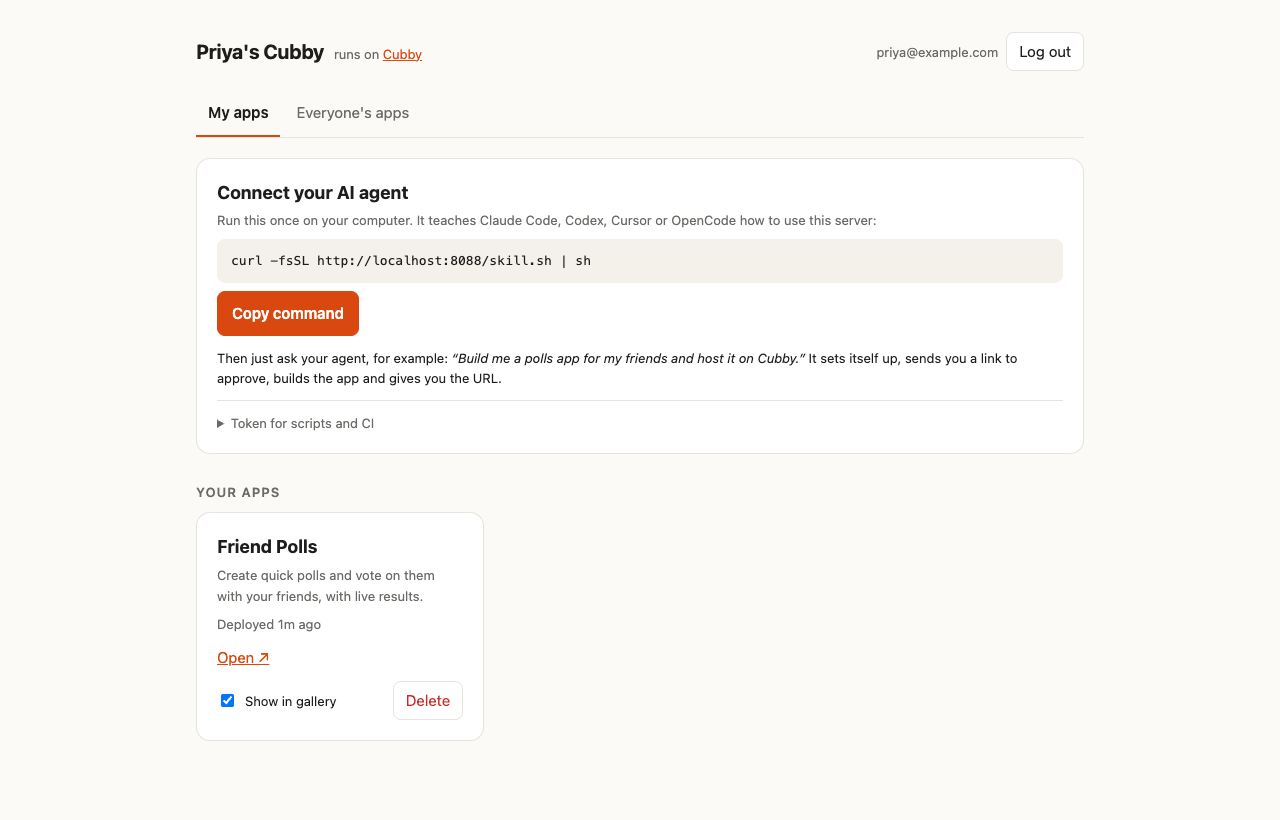
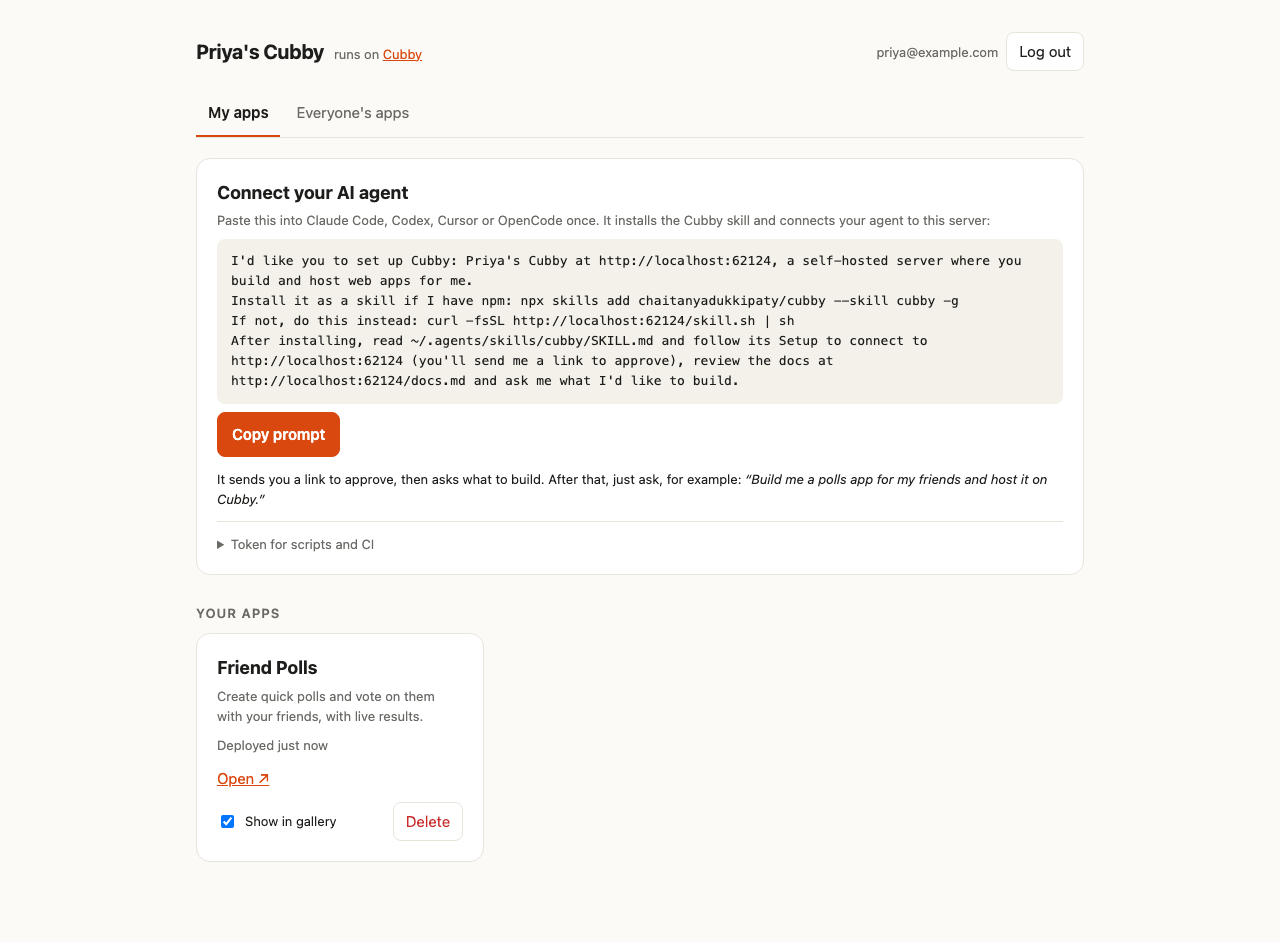
feat(dashboard): connect agents with a setup prompt instead of a bare curl | sh
Pasted on its own, `curl … | sh` from an unfamiliar domain gets flagged by
agents as malicious. The dashboard now shows a here.now-style prompt that names
the server, installs the skill with `npx skills add` (falling back to
/skill.sh) and has the agent connect. SKILL.md takes the server URL from the
user's message when the CLI isn't installed yet. README, docs and the
dashboard screenshot follow.

diff --git a/docs/index.html b/docs/index.html
@@ -8,7 +8,7 @@
 <link rel="icon" href="assets/logo.svg?v=aa679b5d" type="image/svg+xml">
 <meta property="og:title" content="Cubby: a home for the apps your agents build">
 <meta property="og:description" content="Self-host one server, invite your friends, and let AI coding agents build, deploy and share full-stack apps.">
-<meta property="og:image" content="assets/dashboard-my-apps.png?v=2a8e741c">
+<meta property="og:image" content="assets/dashboard-my-apps.png?v=2db02665">
 <link rel="preconnect" href="https://fonts.googleapis.com">
 <link rel="preconnect" href="https://fonts.gstatic.com" crossorigin>
 <link rel="stylesheet" href="https://fonts.googleapis.com/css2?family=Bricolage+Grotesque:opsz,wght@12..96,600;12..96,800&family=IBM+Plex+Sans:ital,wght@0,400;0,500;0,600;1,400&family=JetBrains+Mono:wght@400;500&display=swap">
@@ -301,7 +301,7 @@ curl -fsSL https://raw.githubusercontent.com/chaitanyadukkipaty/cubby/main/insta
       <h2>Invite people</h2>
       <p>Send your friends the server URL and the signup code. In the dashboard's <b>Admin</b> tab, <b>Copy invite</b> copies both. They open the URL, sign up with the code, and land on their dashboard, headed with your server's name.</p>
       <div class="two">
-        <figure class="shot"><img src="assets/dashboard-my-apps.png?v=2a8e741c" alt="Cubby dashboard showing the Connect your AI agent card and the user's Friend Polls app" loading="lazy" width="1280" height="820"><figcaption>What a friend sees after signing up.</figcaption></figure>
+        <figure class="shot"><img src="assets/dashboard-my-apps.png?v=2db02665" alt="Cubby dashboard showing the Connect your AI agent card and the user's Friend Polls app" loading="lazy" width="1280" height="820"><figcaption>What a friend sees after signing up.</figcaption></figure>
         <div>
           <p><b>Rotate code</b> invalidates the old code for new signups; existing accounts keep working.</p>
           <p><b>Open signup</b> drops the code requirement entirely. Leave it off for a server on the public internet: bots find open signup forms within days.</p>
@@ -313,9 +313,12 @@ curl -fsSL https://raw.githubusercontent.com/chaitanyadukkipaty/cubby/main/insta
     <section id="agents">
       <p class="kicker">Everyone · once</p>
       <h2>Connect your agent</h2>
-      <p>Each person runs one command on their own computer. It's shown on their dashboard with the right server URL filled in:</p>
-      <div class="code"><pre>curl -fsSL https://cubby.example.com/skill.sh | sh</pre></div>
-      <p>This installs the <b>cubby skill</b>, instructions that teach your coding agent how to use Cubby, and adds this server to your list by name. The skill goes in <code>~/.agents/skills/cubby</code> and is linked into every agent it finds:</p>
+      <p>Each person pastes one prompt into their coding agent. It's shown on their dashboard with the server's name and URL filled in:</p>
+      <div class="code"><pre style="white-space:pre-wrap">I&#39;d like you to set up Cubby: Priya&#39;s Cubby at https://cubby.example.com, a self-hosted server where you build and host web apps for me.
+Install it as a skill if I have npm: npx skills add chaitanyadukkipaty/cubby --skill cubby -g
+If not, do this instead: curl -fsSL https://cubby.example.com/skill.sh | sh
+After installing, read ~/.agents/skills/cubby/SKILL.md and follow its Setup to connect to https://cubby.example.com (you&#39;ll send me a link to approve), review the docs at https://cubby.example.com/docs.md and ask me what I&#39;d like to build.</pre></div>
+      <p>The agent installs the <b>cubby skill</b>, instructions that teach it how to use Cubby, with <code>npx skills add</code> from GitHub (or the server's own <code>/skill.sh</code> without npm), sends you a link to approve, and adds the server to your list by name. It's a prompt, not a bare <code>curl … | sh</code>, so your agent knows what you're asking for instead of flagging an unknown script. The skill goes in <code>~/.agents/skills/cubby</code> and is linked into every agent it finds:</p>
       <div class="grid">
         <div class="card"><h4>Claude Code</h4><p><code>~/.claude/skills</code></p></div>
         <div class="card"><h4>Codex</h4><p><code>~/.codex/skills</code></p></div>
@@ -481,7 +484,7 @@ curl -fsSL https://raw.githubusercontent.com/chaitanyadukkipaty/cubby/main/insta
       <details class="faq"><summary>How big can it get?</summary><p>All apps share one SQLite database, which comfortably serves a group of friends or a small team. One very busy app slows the others. There's no per-app data quota yet; the Admin tab shows disk use so you can clean up.</p></details>
       <details class="faq"><summary>Which agents work?</summary><p>Any agent that supports skills (Claude Code, Codex, Cursor, OpenCode). Others can still use Cubby by reading <code>&lt;server&gt;/docs.md</code> and running the CLI.</p></details>
       <details class="faq"><summary>What's not supported yet?</summary><p>Server-side code, cron jobs, custom domains per app, single sign-on across apps, and app emails (verification, password reset).</p></details>
-      <details class="faq"><summary>Can I use several Cubby servers?</summary><p>Yes. Run each server's <code>skill.sh</code> command once; your agent then picks a server by its name, and asks if it isn't sure. <code>cubby servers</code> lists them and <code>cubby use</code> sets the default. Servers on different Cubby versions work side by side: the CLI always matches the server it's talking to (in an app folder, the server in <code>cubby.json</code>), downloading that server's version of the CLI once. Agents find out what a server supports with <code>cubby help --json</code>. Servers older than Cubby 0.1.1 aren't supported; the CLI tells you to ask the admin to run <code>sudo cubby-server upgrade</code>.</p></details>
+      <details class="faq"><summary>Can I use several Cubby servers?</summary><p>Yes. Paste each server's setup prompt into your agent once; the first one becomes the default for new apps; your agent then picks a server by its name, and asks if it isn't sure. <code>cubby servers</code> lists them and <code>cubby use</code> sets the default. Servers on different Cubby versions work side by side: the CLI always matches the server it's talking to (in an app folder, the server in <code>cubby.json</code>), downloading that server's version of the CLI once. Agents find out what a server supports with <code>cubby help --json</code>. Servers older than Cubby 0.1.1 aren't supported; the CLI tells you to ask the admin to run <code>sudo cubby-server upgrade</code>.</p></details>
       <details class="faq"><summary>A server moved to a new address. How do I move my app?</summary><p>Each app's <code>cubby.json</code> remembers its server's address. Log in to the new address, then run <code>cubby link &lt;app&gt; --server &lt;new-url&gt;</code> in the app's folder.</p></details>
       <details class="faq"><summary>Which version am I on, and how do I update?</summary><p>The Admin tab shows the version at the bottom and tells you when a newer release is out. On the server, <code>sudo cubby-server version</code> shows the details and <code>sudo cubby-server upgrade</code> updates (it backs up first). Normal releases go 0.1.1 → 0.1.2; only a major change moves to 0.2.0.</p></details>
       <details class="faq"><summary>My agent's login link expired.</summary><p>Links last 10 minutes. Ask the agent to try again; it starts a fresh one.</p></details>

diff --git a/server/public/index.html b/server/public/index.html
@@ -107,6 +107,17 @@ function ago(date, now = Date.now()) {
 }
 const maskToken = (t) => `${String(t).slice(0, 6)}${'•'.repeat(20)}`;
 const installCommand = (server) => `curl -fsSL ${server}/skill.sh | sh`;
+const SKILL_REPO = 'chaitanyadukkipaty/cubby';
+// What a user pastes into their agent. Stating the intent and the server up front (and letting the agent read the
+// installer) is what keeps agents from flagging a bare `curl | sh` from an unknown domain as malicious.
+function setupPrompt(server, name) {
+  const named = displayName(name) !== 'Cubby' ? `${displayName(name)} at ` : '';
+  return `I'd like you to set up Cubby: ${named}${server}, a self-hosted server where you build and host web apps for me.\n`
+    + `Install it as a skill if I have npm: npx skills add ${SKILL_REPO} --skill cubby -g\n`
+    + `If not, do this instead: ${installCommand(server)}\n`
+    + `After installing, read ~/.agents/skills/cubby/SKILL.md and follow its Setup to connect to ${server} `
+    + `(you'll send me a link to approve), review the docs at ${server}/docs.md and ask me what I'd like to build.`;
+}
 const tokenLoginCommand = (server) => `cubby login ${server} --token <token>`;
 const displayName = (name) => (typeof name === 'string' && name.trim()) || 'Cubby';
 const inviteText = (server, code, name) => `Join ${name ? displayName(name) : 'my Cubby server'}: ${server}\nSignup code: ${code}`;
@@ -278,7 +289,7 @@ function render() {
 }
 
 function setupCard() {
-  const install = installCommand(SERVER);
+  const prompt = setupPrompt(SERVER, info.name);
   const masked = () => maskToken(me.token);
   let revealed = false;
   const tokenEl = h('code', { class: 'mono', 'aria-label': 'Your token' });
@@ -287,12 +298,11 @@ function setupCard() {
   return h('div', { class: 'card stack' },
     h('div', {},
       h('h2', {}, 'Connect your AI agent'),
-      h('p', { class: 'muted small' }, 'Run this once on your computer. It teaches Claude Code, Codex, Cursor or OpenCode how to use this server:'),
-      h('pre', {}, install),
-      h('button', { class: 'primary', onclick: () => copy(install, 'Command copied') }, 'Copy command'),
-      h('p', { class: 'small', style: 'margin-top:12px' }, 'Then just ask your agent, for example: ',
-        h('i', {}, '“Build me a polls app for my friends and host it on Cubby.”'),
-        ' It sets itself up, sends you a link to approve, builds the app and gives you the URL.'),
+      h('p', { class: 'muted small' }, 'Paste this into Claude Code, Codex, Cursor or OpenCode once. It installs the Cubby skill and connects your agent to this server:'),
+      h('pre', { 'aria-label': 'Setup prompt', style: 'word-break:normal;overflow-wrap:anywhere' }, prompt),
+      h('button', { class: 'primary', onclick: () => copy(prompt, 'Prompt copied') }, 'Copy prompt'),
+      h('p', { class: 'small', style: 'margin-top:12px' }, 'It sends you a link to approve, then asks what to build. After that, just ask, for example: ',
+        h('i', {}, '“Build me a polls app for my friends and host it on Cubby.”')),
     ),
     h('details', { class: 'small', style: 'border-top:1px solid var(--line);padding-top:12px' },
       h('summary', { class: 'muted', style: 'cursor:pointer' }, 'Token for scripts and CI'),

diff --git a/tests/unit/frontend-dashboard.test.js b/tests/unit/frontend-dashboard.test.js
@@ -20,7 +20,7 @@ class FakeElement extends Node {
 function load() {
   const ctx = vm.createContext({ Node, document: { createElement: (t) => new FakeElement(t) }, URLSearchParams, Date, String, Object });
   vm.runInContext(block, ctx);
-  return vm.runInContext('({ h, fmtBytes, ago, maskToken, installCommand, tokenLoginCommand, inviteText, isHttps, parseConnectCode, apiErrorMessage, displayName, connectHeading })', ctx);
+  return vm.runInContext('({ h, fmtBytes, ago, maskToken, installCommand, setupPrompt, tokenLoginCommand, inviteText, isHttps, parseConnectCode, apiErrorMessage, displayName, connectHeading })', ctx);
 }
 
 test('the helper block exists and has no DOM-state or network access', () => {
@@ -89,6 +89,16 @@ describe('tokens and commands', () => {
   test('install and login commands use the server URL', () => {
     assert.equal(f.installCommand('https://cubby.example.com'), 'curl -fsSL https://cubby.example.com/skill.sh | sh');
     assert.equal(f.tokenLoginCommand('http://1-2-3-4.sslip.io'), 'cubby login http://1-2-3-4.sslip.io --token <token>');
+  });
+  test('setupPrompt names the server, installs the skill (npm first, skill.sh as fallback) and points at its docs', () => {
+    const p = f.setupPrompt('https://cubby.example.com', "Priya's Cubby");
+    assert.match(p, /^I'd like you to set up Cubby: Priya's Cubby at https:\/\/cubby\.example\.com, /);
+    assert.ok(p.includes('npx skills add chaitanyadukkipaty/cubby --skill cubby -g'));
+    assert.ok(p.includes('If not, do this instead: curl -fsSL https://cubby.example.com/skill.sh | sh'));
+    assert.ok(p.includes('connect to https://cubby.example.com '));
+    assert.ok(p.includes('https://cubby.example.com/docs.md'));
+    assert.match(f.setupPrompt('https://c.dev', null), /^I'd like you to set up Cubby: https:\/\/c\.dev, /, 'no name: just the URL');
+    assert.match(f.setupPrompt('https://c.dev', 'Cubby'), /^I'd like you to set up Cubby: https:\/\/c\.dev, /, 'the default name adds nothing');
   });
   test('inviteText contains URL and code on separate lines', () => {
     assert.equal(f.inviteText('https://c.dev', 'otter-maple-42'), 'Join my Cubby server: https://c.dev\nSignup code: otter-maple-42');

diff --git a/tests/e2e/dashboard.spec.js b/tests/e2e/dashboard.spec.js
@@ -16,7 +16,8 @@ test('a new user signs up with the signup code and lands on their dashboard', as
   await authPage.createAccountButton.click();
   await expect(dashboard.account(email)).toBeVisible();
   await expect(dashboard.myApps.connectHeading).toBeVisible();
-  await expect(dashboard.myApps.installCommand).toHaveText(`curl -fsSL ${baseURL}/skill.sh | sh`);
+  await expect(dashboard.myApps.setupPrompt).toContainText('npx skills add chaitanyadukkipaty/cubby --skill cubby -g');
+  await expect(dashboard.myApps.setupPrompt).toContainText(`curl -fsSL ${baseURL}/skill.sh | sh`);
   await expect(dashboard.myApps.emptyState).toBeVisible();
   await expect(dashboard.adminTab).toHaveCount(0);
 
@@ -52,9 +53,9 @@ test('the token can be revealed and copied, and regenerating it revokes the old 
   await expect(dashboard.myApps.token).toHaveText(/^hk_\S{3}•+$/);
   expect(await dashboard.myApps.revealToken()).toBe(user.token);
 
-  await dashboard.myApps.copyCommandButton.click();
-  await expect(dashboard.toast).toHaveText('Command copied');
-  expect(await page.evaluate(() => navigator.clipboard.readText())).toMatch(/\/skill\.sh \| sh$/);
+  await dashboard.myApps.copyPromptButton.click();
+  await expect(dashboard.toast).toHaveText('Prompt copied');
+  expect(await page.evaluate(() => navigator.clipboard.readText())).toMatch(/^I'd like you to set up Cubby: [\s\S]*\/docs\.md and ask me what I'd like to build\.$/);
 
   answerNextDialog(page);
   await dashboard.myApps.regenerateButton.click();

diff --git a/tests/e2e/pages/my-apps-section.js b/tests/e2e/pages/my-apps-section.js
@@ -3,8 +3,8 @@ export class MyAppsSection {
   constructor(page) {
     this.page = page;
     this.connectHeading = page.getByRole('heading', { name: 'Connect your AI agent' });
-    this.installCommand = page.getByText(/^curl -fsSL \S+\/skill\.sh \| sh$/);
-    this.copyCommandButton = page.getByRole('button', { name: 'Copy command' });
+    this.setupPrompt = page.getByLabel('Setup prompt');
+    this.copyPromptButton = page.getByRole('button', { name: 'Copy prompt' });
     this.tokenToggle = page.getByText('Token for scripts and CI');
     this.token = page.getByLabel('Your token');
     this.revealButton = page.getByRole('button', { name: 'Reveal' });

diff --git a/README.md b/README.md
@@ -79,7 +79,7 @@ else's platform and you can't bring your own agent.
 
 <table>
 <tr>
-<td width="50%"><img src="docs/assets/dashboard-my-apps.png?v=2a8e741c" alt="Dashboard with the Connect your AI agent card"><p align="center"><sub>Your dashboard on Priya's Cubby: connect your agent, see your apps</sub></p></td>
+<td width="50%"><img src="docs/assets/dashboard-my-apps.png?v=2db02665" alt="Dashboard with the Connect your AI agent card"><p align="center"><sub>Your dashboard on Priya's Cubby: connect your agent, see your apps</sub></p></td>
 <td width="50%"><img src="docs/assets/connect-approve.png?v=fd35d280" alt="Approval page for connecting an AI agent"><p align="center"><sub>One click to connect an agent to a named server</sub></p></td>
 </tr>
 <tr>
@@ -142,11 +142,18 @@ automatically; see [Releases](CONTRIBUTING.md#releases).
 ## Connect your agent and build
 
 1. Open the server URL and **sign up** with the signup code.
-2. Run the command shown on your dashboard, once per server:
-   ```sh
-   curl -fsSL https://your-server.com/skill.sh | sh
+2. Copy the setup prompt from your dashboard and paste it into your agent (Claude Code, Codex, Cursor or OpenCode),
+   once per server. It has your server's name and URL filled in:
+   ```text
+   I'd like you to set up Cubby: Priya's Cubby at https://your-server.com, a self-hosted server where you build and host web apps for me.
+   Install it as a skill if I have npm: npx skills add chaitanyadukkipaty/cubby --skill cubby -g
+   If not, do this instead: curl -fsSL https://your-server.com/skill.sh | sh
+   After installing, read ~/.agents/skills/cubby/SKILL.md and follow its Setup to connect to https://your-server.com (you'll send me a link to approve), review the docs at https://your-server.com/docs.md and ask me what I'd like to build.
    ```
-   It installs the `cubby` agent skill and adds the server to `~/.cubby/config.json`.
+   The agent installs the `cubby` skill (from GitHub with `npx skills add`, or from your server's `/skill.sh` without
+   npm), sends you a link to approve, and adds the server to `~/.cubby/config.json`. It's a prompt rather than a
+   bare `curl … | sh` so the agent knows what you're asking for: pasted on its own, agents rightly flag a pipe-to-shell
+   from an unfamiliar domain as suspicious.
 3. Ask your agent for an app in plain words, naming the server if you have more than one. That's it.
 
 <details>
@@ -176,9 +183,10 @@ automatically; see [Releases](CONTRIBUTING.md#releases).
 Most people end up on more than one server: a friends' cubby and a team's, say. One skill and one CLI handle all of
 them by name:
 
+Paste each server's setup prompt into your agent once. The first server you add becomes the default for new apps;
+`cubby use <name>` changes it.
+
 ```sh
-curl -fsSL https://priyas-server.com/skill.sh | sh     # adds "Priya's Cubby"
-curl -fsSL https://cubby.acme.dev/skill.sh | sh        # adds "Acme Cubby"
 cubby servers
 # * Priya's Cubby   https://priyas-server.com  alex@example.com  v0.1.0
 #   Acme Cubby      https://cubby.acme.dev     alex@acme.dev     v0.2.0

diff --git a/cli/skill/cubby/SKILL.md b/cli/skill/cubby/SKILL.md
@@ -37,10 +37,11 @@ command, edit a file, or answer a technical question.
 Do this yourself before building. Never ask the user to run anything.
 
 1. **Find the servers.** Run `cubby servers --json` (a list of `{ name, url, logged_in, default }`).
-   - `command not found`: read `~/.cubby/config.json` (`servers` → `url`); installing this skill
-     adds the server there. Install the CLI from that server (needs Node.js 20+):
-     `npm i -g {url}/cli.tgz`, then run `cubby servers --json` again.
-   - No servers anywhere: ask the user once: *"What's the URL of your Cubby server?"*
+   - `command not found`: take the server URL from the user's message (the setup prompt on their
+     dashboard names it), else from `~/.cubby/config.json` (`servers` → `url`). Install the CLI from
+     that server (needs Node.js 20+): `npm i -g {url}/cli.tgz`, then run `cubby servers --json` again.
+   - The user gave a server URL that isn't listed: logging in to it (step 3) adds it.
+   - No servers anywhere and no URL from the user: ask once: *"What's the URL of your Cubby server?"*
 2. **Pick one** (call it `{server}`, the name, or the URL if it has none):
    - Inside an app folder (has `cubby.json`): that app's server is fixed. Don't pass `--server`.
    - The user named one ("on Acme Cubby", "on Priya's server"): match it to a `name`.

diff --git a/CHANGELOG.md b/CHANGELOG.md
@@ -5,6 +5,14 @@ All notable changes to Cubby are documented here. The format follows
 
 ## [Unreleased]
 
+### Changed
+
+- The dashboard's "Connect your AI agent" card shows a prompt to paste into your agent instead of a bare
+  `curl … | sh` command, which agents rightly flagged as suspicious. The prompt names the server, installs the skill
+  with `npx skills add chaitanyadukkipaty/cubby --skill cubby -g` (or the server's `/skill.sh` without npm) and has
+  the agent connect, so the server becomes your default. `/skill.sh` keeps working as before.
+- The skill takes the server URL from the user's message when the CLI isn't installed yet.
+
 ## [0.1.3] - 2026-10-17
 
 ### Fixed
